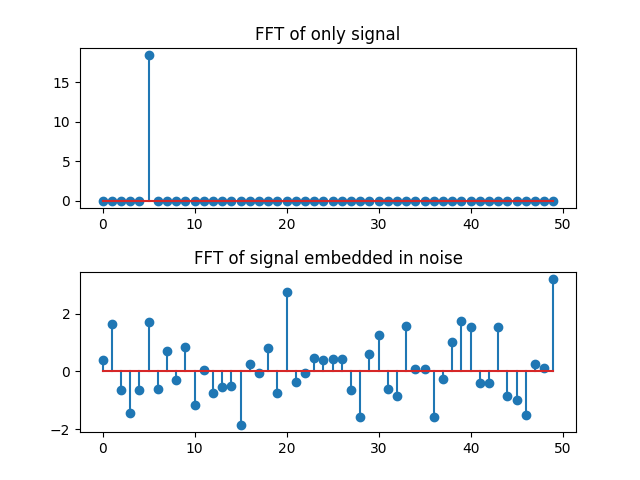
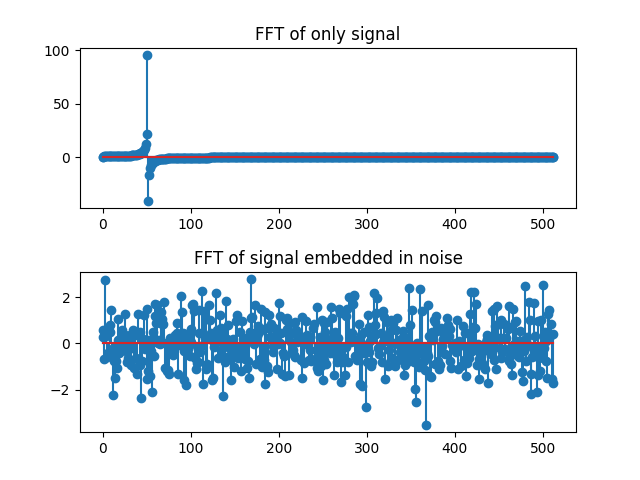
Added function that finds most dominant frequency in FFT. Some bugs present

diff --git a/main.py b/main.py
@@ -7,11 +7,14 @@ A = 1
 SNR = 10 # In dB
 SIGMA_SQUARED = (A**2)/(2*SNR)
 T = 10**(-6) 
-N = 50
+N = 513
 n_0 = -256
 f_0 = 10**5
 omega_0 = 2*np.pi*f_0
 theta = np.pi/8
+
+k = 10
+fft_length = 2**k
 
 # ---------- CRLB Helpers ---------- #
 P = (N*(N-1)) / 2
@@ -44,29 +47,26 @@ for i in range(N):
 
 
 def main():
-    n = np.arange(N)
     print("The CRLB for the Omega estimator is: ", CRLB_OMEGA)
     print("The CRLB for the Theta estimator is: ",CRLB_THETA)
     
+    n = np.arange(N)
+    
+    # White noise
     plt.figure(1)
     plt.plot(w)
     plt.title("White complex Gaussian noise")
     plt.savefig("noise.png")
     
-    plt.figure(3)
+    # Only signal
+    plt.figure(2)
     plt.stem(n,s)
     plt.title("Plot of DT signal: $s[n] = e^{j(\omega n T -1)}$")
     plt.savefig("signal.png")
 
-    plt.figure(2)
-    plt.title("Total sigal")
-    plt.xlabel("n")
-    plt.ylabel("x[n] = ")
-    plt.plot(x)
-    plt.savefig("total.png") 
-
+    # Signal + white noise
     n = np.arange(N)
-    plt.figure(4)
+    plt.figure(3)
     plt.title("Plot of DT signal: $x[n] = e^{j(\omega n T -1)} + w[n]$")
     plt.xlabel("n")
     plt.ylabel("x[n]")
@@ -74,19 +74,34 @@ def main():
     plt.savefig("stem.png")
 
     # Fourier transform
+    FT_s = np.fft.fft(s,n = fft_length)
+    FT_x = np.fft.fft(x,n = fft_length)
 
 
-    FT_s = np.fft.fft(s)
-    FT_x = np.fft.fft(x)
-
+    print(len(x))
+    print(len(s))
+    print()
+    print("FT_s length is ", len(FT_s))
+    print("FT_x length is ", len(FT_x))
+    
+    
     plt.subplots_adjust(left=0.125, bottom=0.1, right=0.9, top=0.9, wspace=0.4, hspace=0.4)
     plt.subplot(211)
     plt.title("FFT of only signal")
-    plt.stem(n,FT_s)
+    plt.stem(np.arange(len(FT_s)),FT_s)
     plt.subplot(212)
     plt.title("FFT of signal embedded in noise")
-    plt.stem(n,FT_x)
+    plt.stem(np.arange(len(FT_x)),FT_x)
     plt.savefig("fft.png")    
+    
+
+    # Checking that most dominant is as is to be expected
+    f = bml.findDominantFrequency(FT_s,T,fft_length)
+    print("Most dominant frequency in s[in] is: ", f, " Hz")
+
+    # Finding most dominant in total signal
+    f = bml.findDominantFrequency(FT_x,T,fft_length)
+    print("Most dominant frequency in x[n] is: ",f, " Hz")
 
 main()
 

diff --git a/buggesmatteland.py b/buggesmatteland.py
@@ -14,3 +14,12 @@ def GenerateNoise(signal, SNR_dB): # desiredSNR [dB]; signal is an array with co
    print(10.0*np.log10((np.var(signal))/(np.var(n))))
    return n
 
+# Returns most dominant frequency of FFT in hertz
+# fft must be numpy array
+def findDominantFrequency(fft,samplingPeriod,fftLength):
+    maxVal = max(fft)
+    maxIndex = np.where(fft == maxVal)
+    maxIndex = maxIndex[0][0]
+
+    f = maxIndex * (1/(samplingPeriod*fftLength))
+    return f
